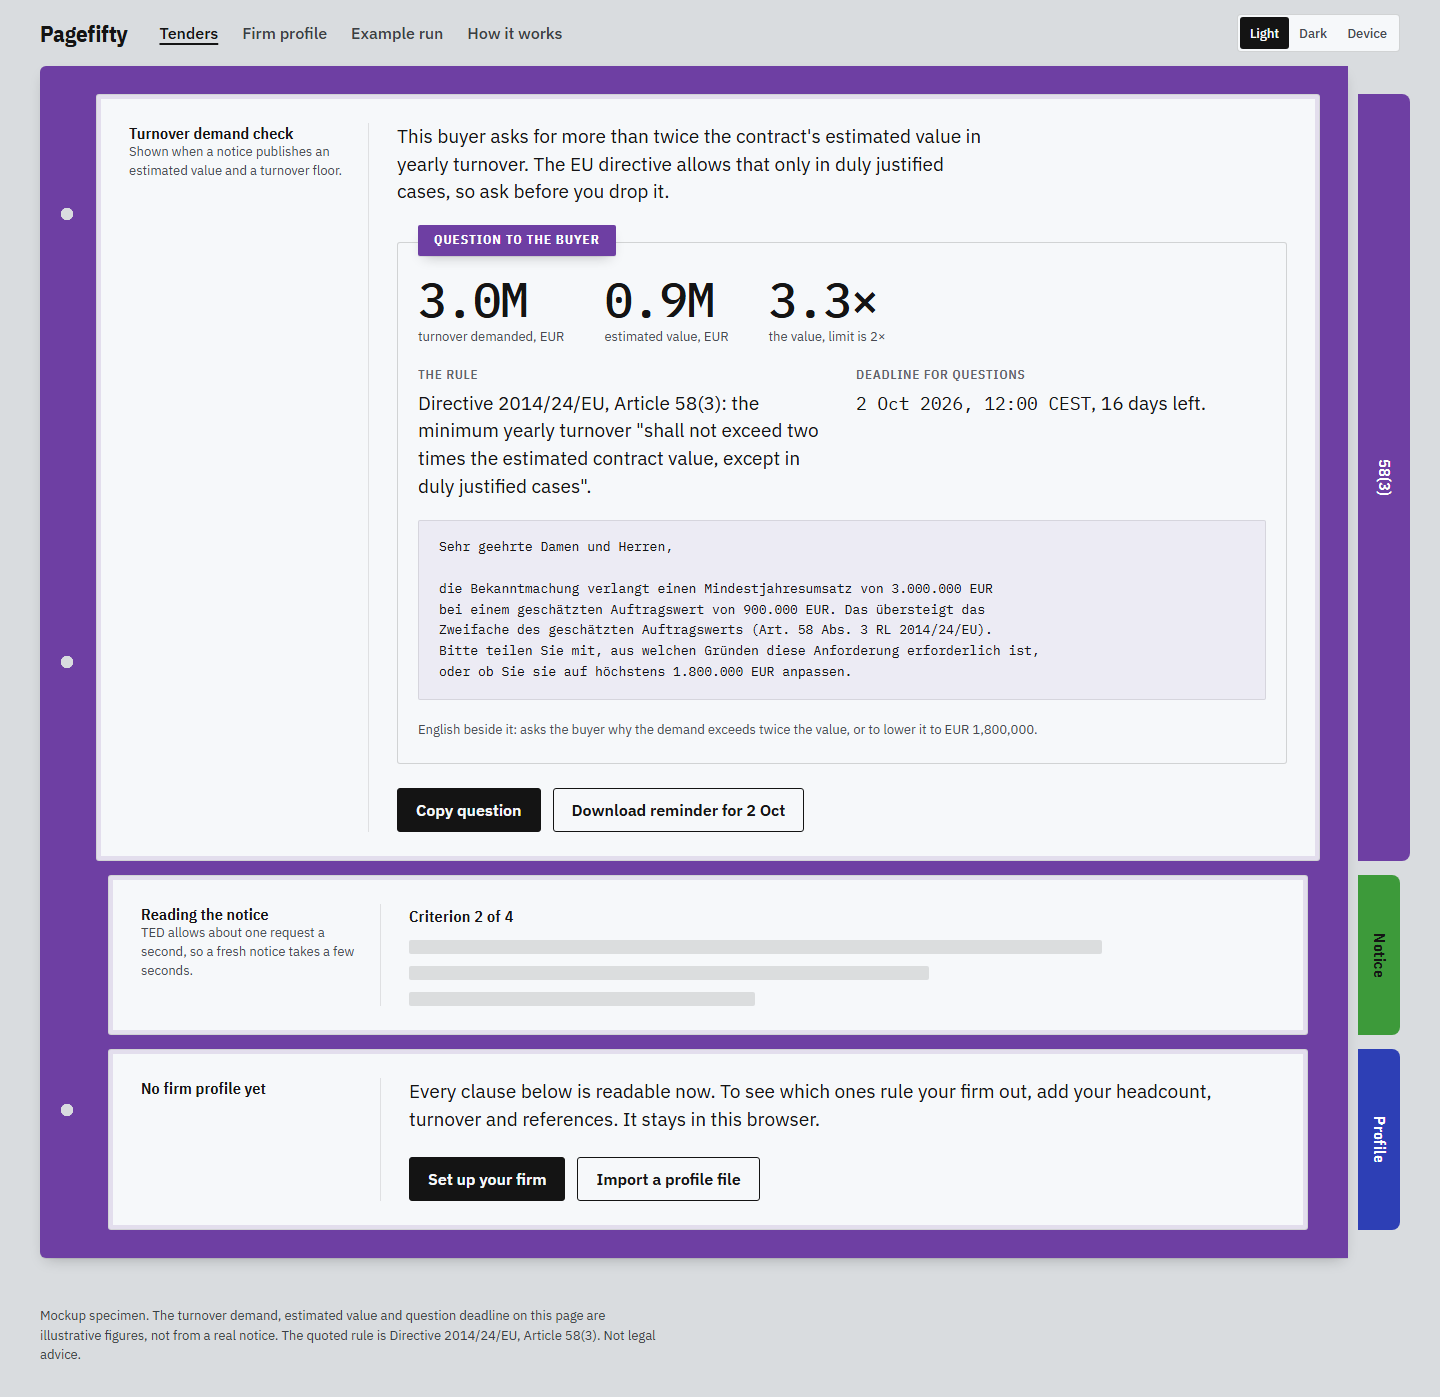
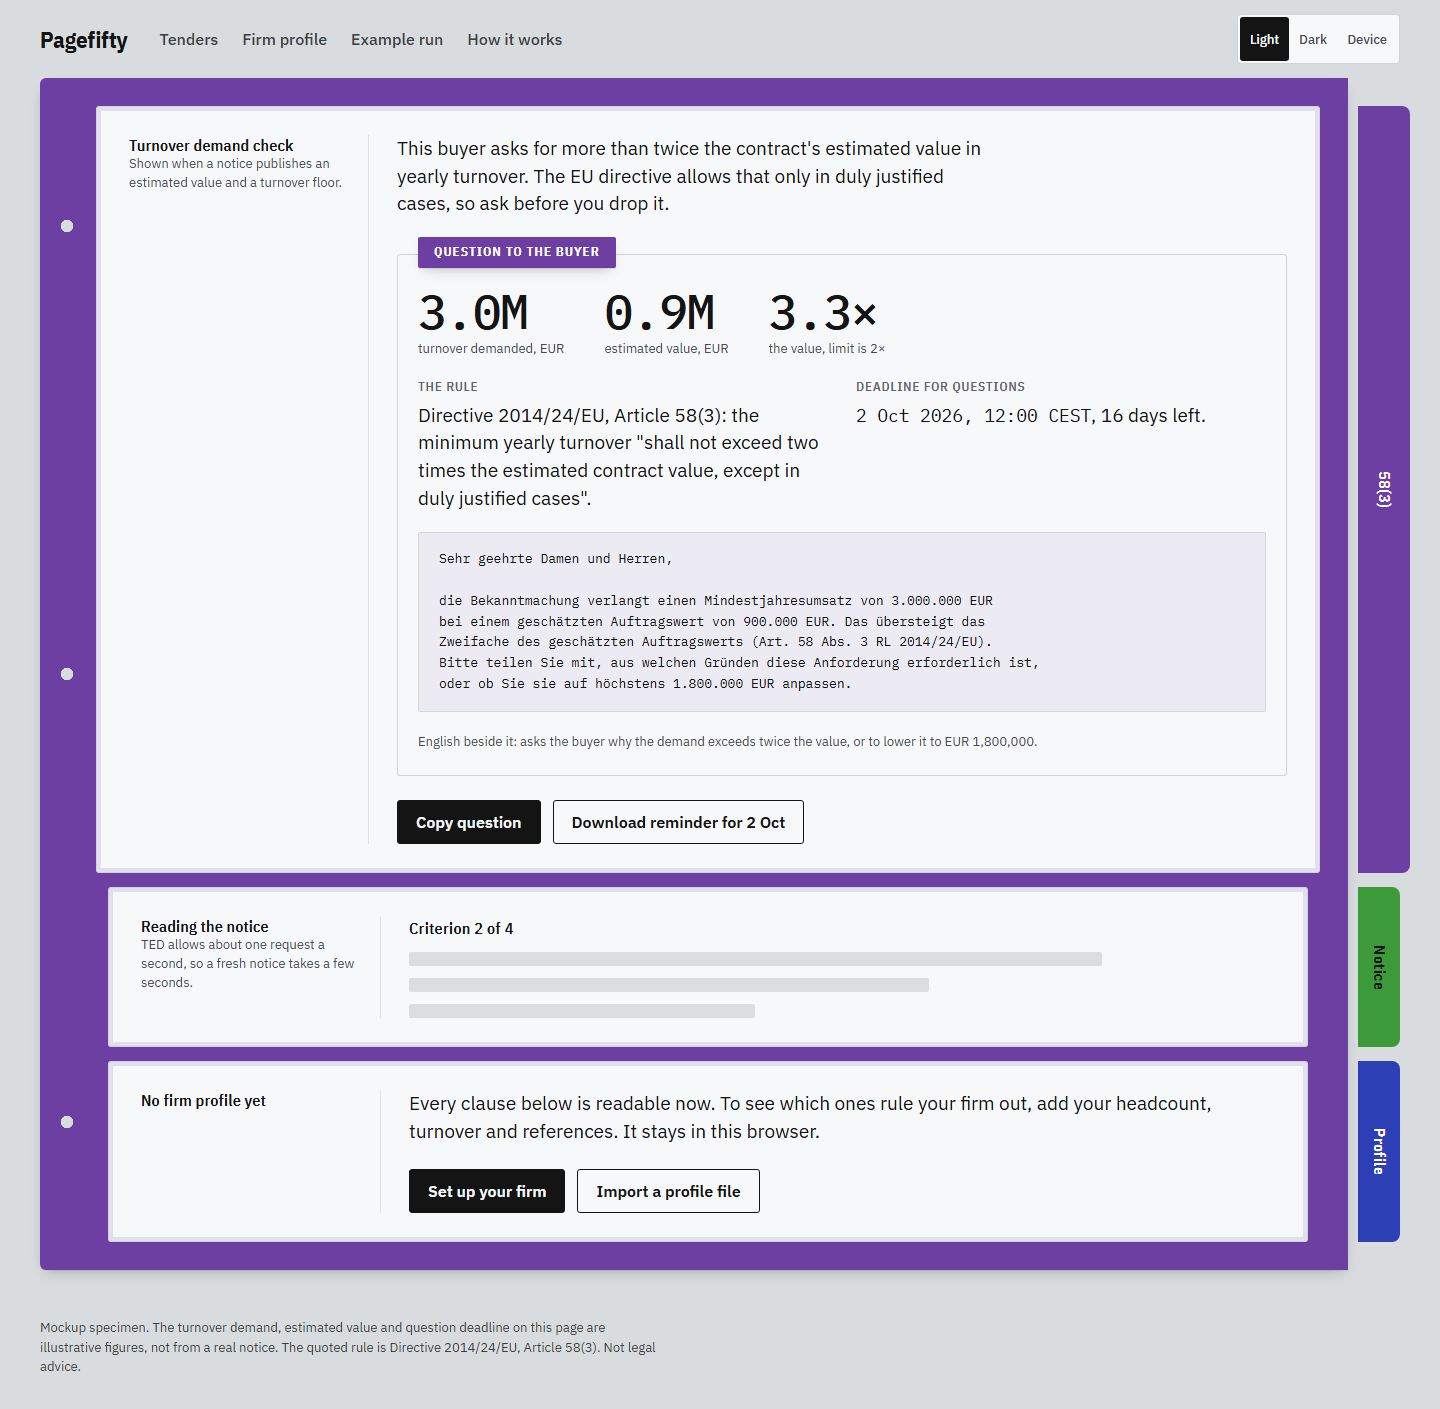
docs(design): recapture the mockups after the review fixes
The 20 images last changed in 674a669, before df4dec5 and e264ea0 moved
the verdict facts first, labelled the stacked table cells, raised the theme
buttons to 44px and flattened the hinge strip on phones. Every fresh capture
is 8 to 12px taller than the image it replaces, the height the larger theme
buttons add to the desk bar. ART-DIRECTION.md now records how they are taken
so the next change can recapture them the same way.

ritual step suggest-1

diff --git a/design/ART-DIRECTION.md b/design/ART-DIRECTION.md
@@ -163,6 +163,8 @@ Light, Dark and Device (the default, following `prefers-color-scheme` live). A v
 
 Source pages: `verdict.html`, `tenders.html`, `profile.html`, `home.html`, `states.html`, styled by `assets/pagefifty.css`.
 
+Each image is a full-page capture in headless Chromium at a 1440 by 900 or 390 by 844 viewport, with the page opened as `?theme=light` or `?theme=dark`. Capture them again after any change to a page or the stylesheet, so the images match the pages.
+
 ## Content truth
 
 - Tender facts and German quotes come from TED notices 630477-2026, 600017, 612926, 634313, 634770, 631707, 625719 and 614181 (2026).
